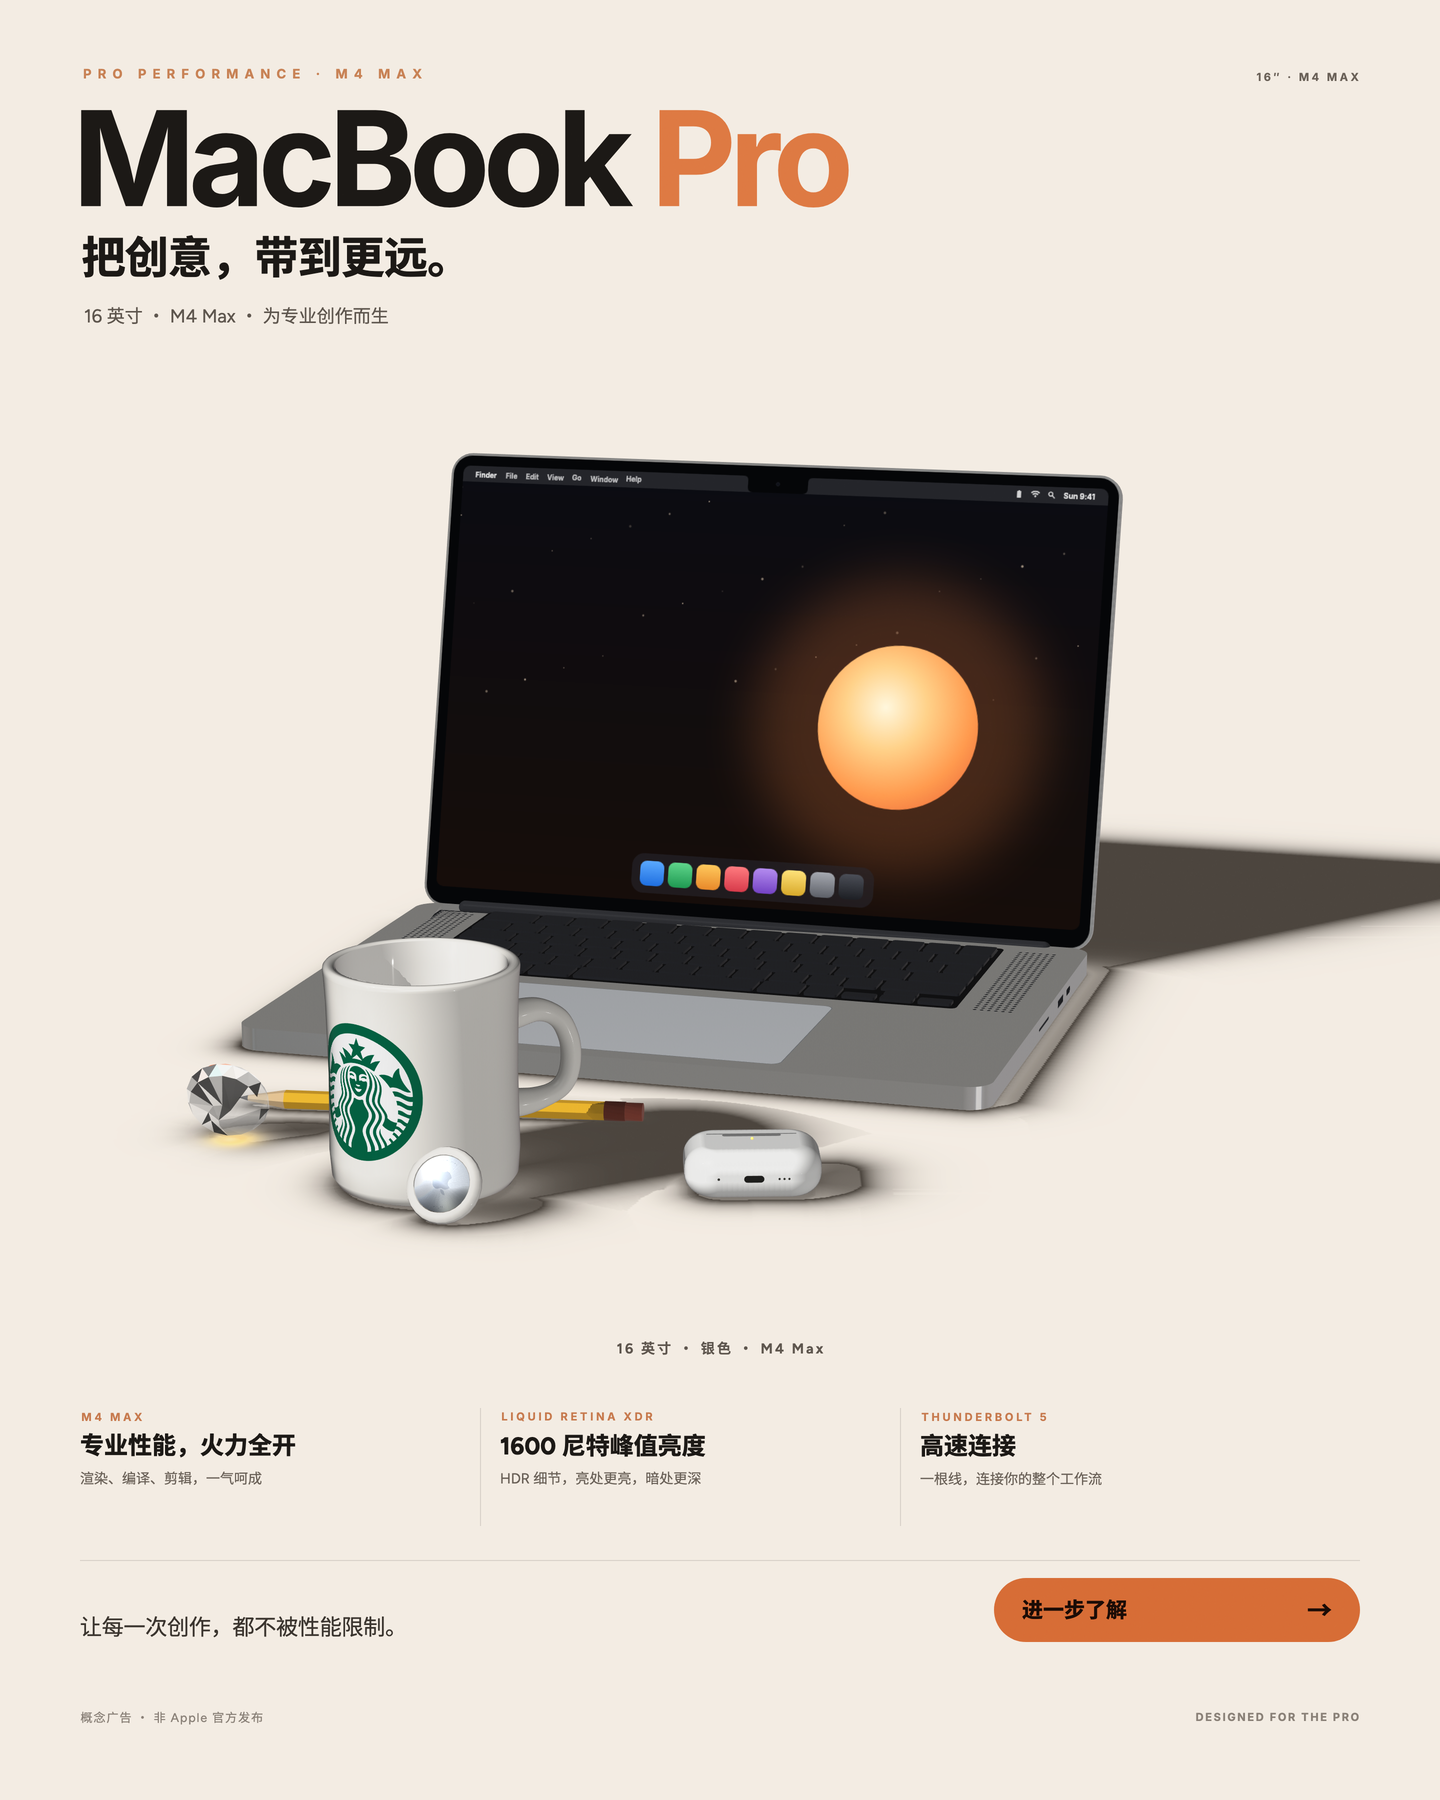
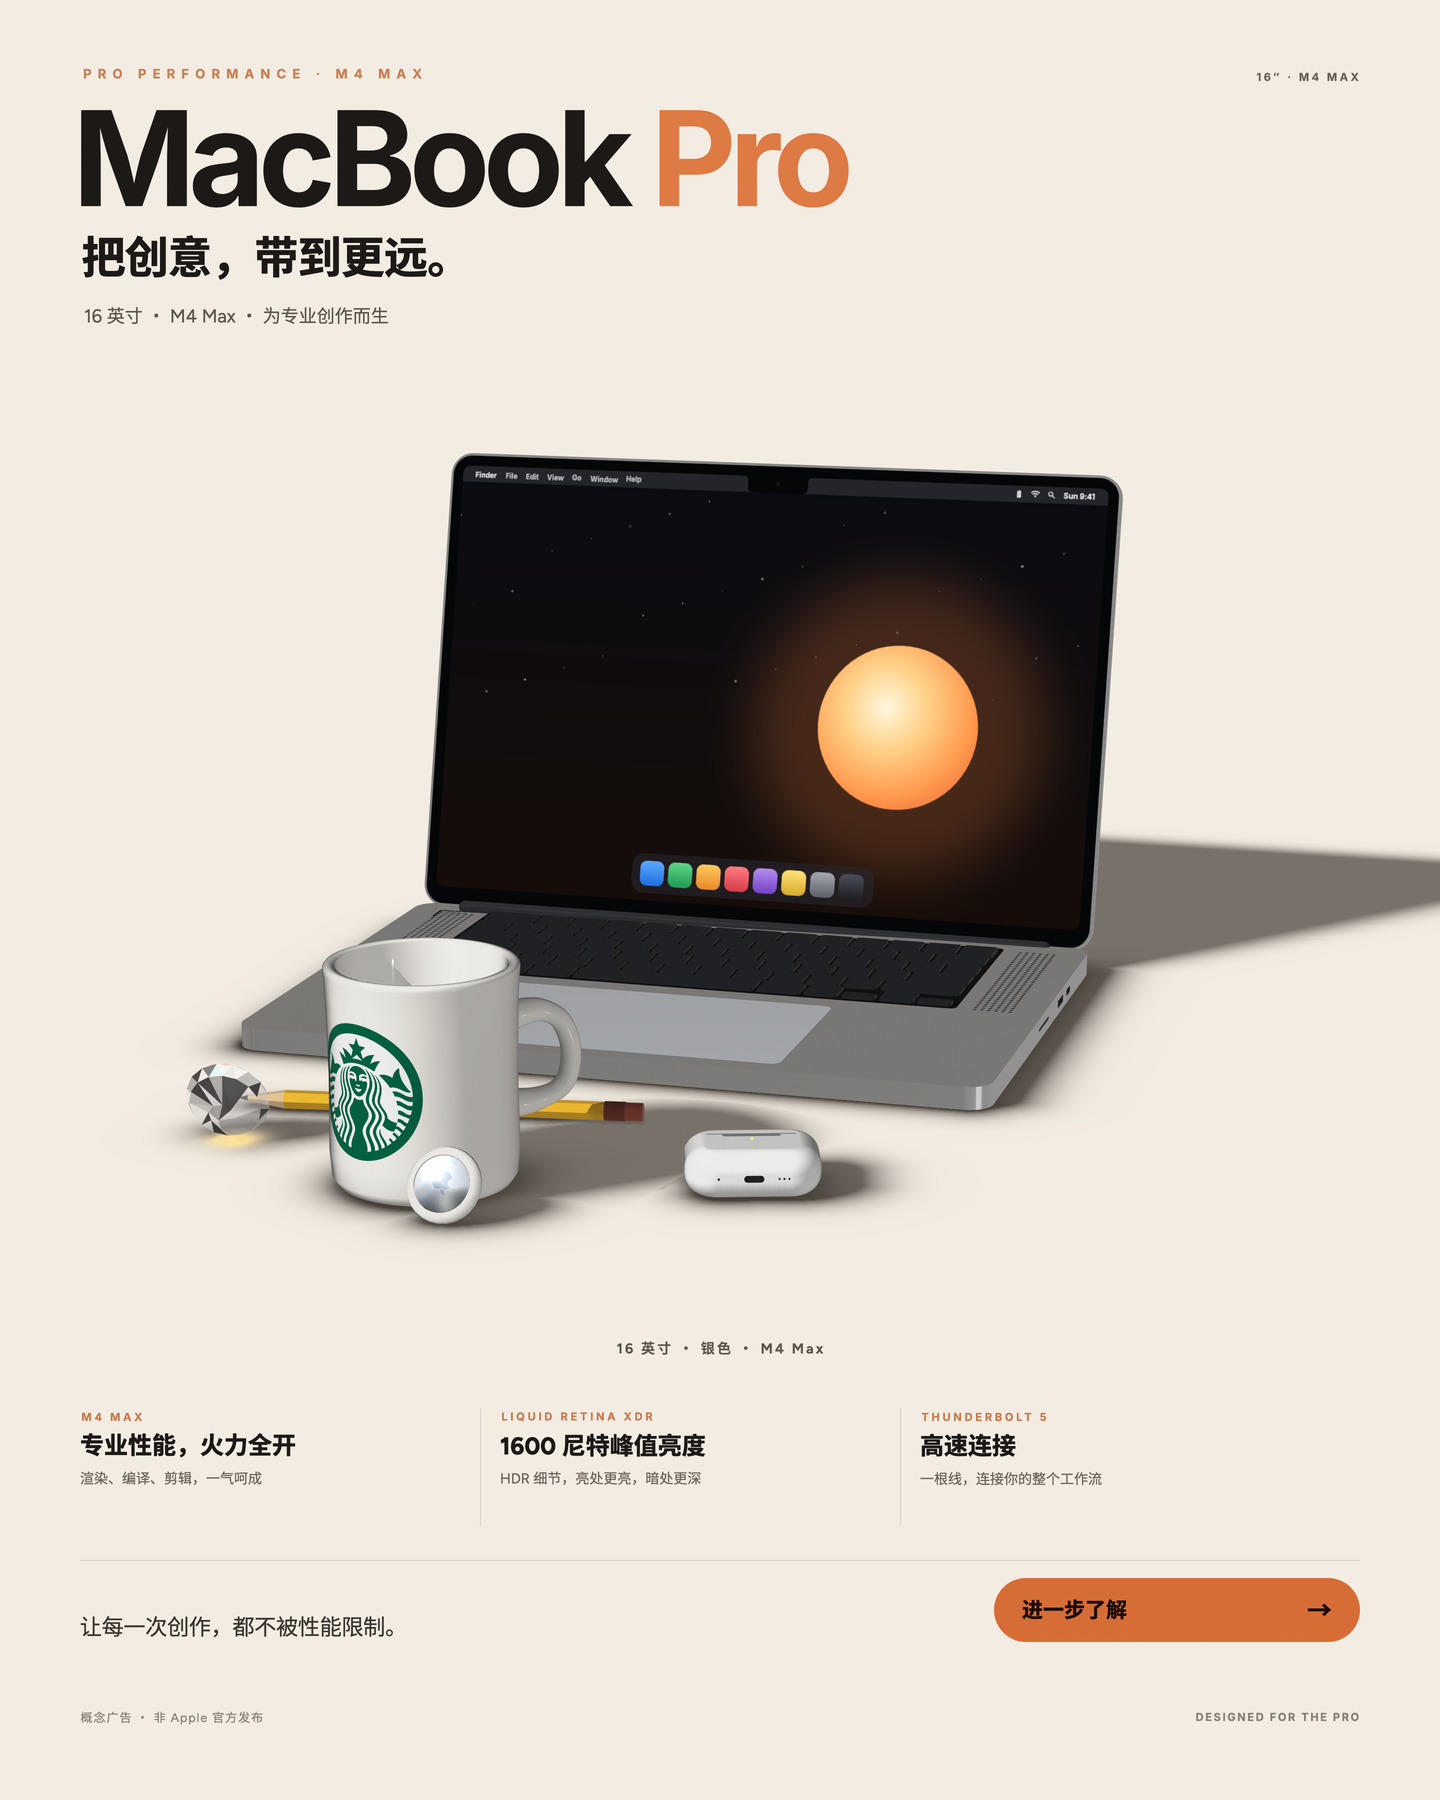
examples: refresh the poster on the softened ground shadow
Opacity goes to full because the bake now sits the umbra at 0.72 and spends the
rest on the contact ring; the shadow-catcher comparison copy is kept identical
so the two stay comparable. CYCLES.md carries the measured foreground residuals
from the new frame.

diff --git a/examples/macbook-pro.tsx b/examples/macbook-pro.tsx
@@ -1265,7 +1265,7 @@ export default (
       <Lid />
       <Base />
       <Props />
-      <ground y={STAGE.groundY} rotateX="90" fill="#efe8df" shadow-blur="42" shadow-opacity="0.95" />
+      <ground y={STAGE.groundY} rotateX="90" fill="#efe8df" shadow-blur="42" shadow-opacity="1.0" />
     </layer>
     <layer x="80" y="66">
       <p style="font-family:Inter; font-size:13px; font-weight:700; letter-spacing:6.2px; color:#c88255">PRO PERFORMANCE · M4 MAX</p>

diff --git a/examples/macbook-pro-shadow-catcher.tsx b/examples/macbook-pro-shadow-catcher.tsx
@@ -1265,7 +1265,7 @@ export default (
       <Lid />
       <Base />
       <Props />
-      <ground y={STAGE.groundY} rotateX="90" shadow-blur="42" shadow-opacity="0.78" />
+      <ground y={STAGE.groundY} rotateX="90" shadow-blur="42" shadow-opacity="1.0" />
     </layer>
     <layer x="80" y="66">
       <p style="font-family:Inter; font-size:13px; font-weight:700; letter-spacing:6.2px; color:#c88255">PRO PERFORMANCE · M4 MAX</p>

diff --git a/docs/CYCLES.md b/docs/CYCLES.md
@@ -235,20 +235,21 @@ shadow catcher** 一趟渲完，不再靠两遍渲染相减。
 | 340（阴影核心） | 24 | 24 |
 
 前景物体对比用**权威物体掩膜**统计：另渲一张「只有物体、白色自发光、纯黑背景」
-的图，凡是亮度 >200 的像素就是物体本体（占全图 18.8%），再向内腐蚀 3px 剔除
+的图，凡是亮度 >200 的像素就是物体本体（占全图 18.2%），再向内腐蚀 3px 剔除
 1px 抗锯齿轮廓，只比较纯粹的物体内部。
 
-| 区域 | 平均差 /255 | 95 分位 | 最大 |
-| --- | --- | --- | --- |
-| 屏幕 / 上盖 | 0.03 | 0.33 | 19 |
-| 键盘 / 机身 | 0.26 | 1.00 | 46 |
-| 杯身 | 0.31 | 1.33 | 5 |
-| 耳机壳 | 0.30 | 1.67 | 5 |
-| **物体合计** | **0.16** | **0.67** | 49 |
+| 区域 | 平均差 /255 | 95 分位 |
+| --- | --- | --- |
+| 上盖 / 屏幕 | 0.03 | 0.33 |
+| 机身中段 | 0.14 | 0.67 |
+| 机身下部（近地） | 0.50 | 2.00 |
+| **物体合计** | **0.11** | **0.67** |
 
-中位数为 **0.00**（一半像素逐位相同），差 >2 的像素只占 **1.2%**。
+中位数为 **0.00**（一半像素逐位相同），差 >2 的像素只占 **0.5%**，最大差 37。
 
-结论：**前景物体与实体地板那版肉眼不可辨**（目标 <2/255，实测 0.16）。残差
+（256 spp 实测；不同采样数下合计值在 0.11–0.16 之间浮动。）
+
+结论：**前景物体与实体地板那版肉眼不可辨**（目标 <2/255，实测 0.11）。残差
 集中在两处，都不是物体本体受光的问题：
 
 1. 物体轮廓 1px 抗锯齿边——两侧「背后的东西」不同（天空 235 vs 白地板 248），
